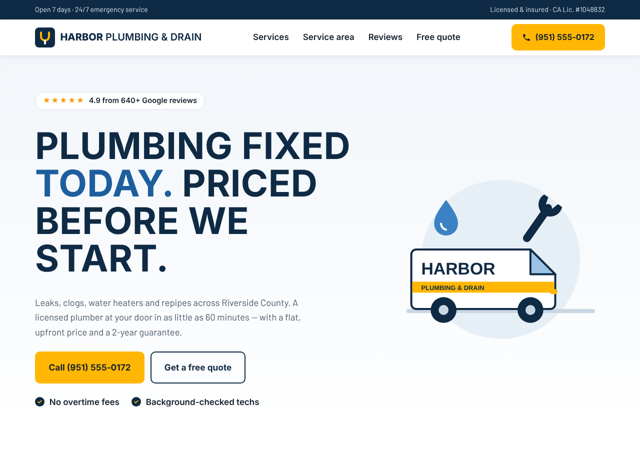
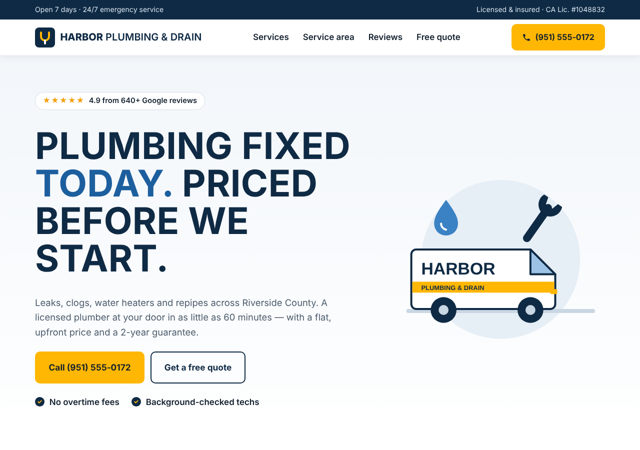
Move site to goodlittlefiles.com
Claude-Session: https://claude.ai/code/session_014Zyiwb7oGSLGtLhNHFaR6K

Changed region(s): [[0.0625, 0.6533, 0.5312, 0.7467], [0.75, 0.0, 0.9375, 0.0311], [0.0625, 0.0, 0.25, 0.0311]]

diff --git a/templates/local-business/index.html b/templates/local-business/index.html
@@ -1,6 +1,6 @@
 <!doctype html><html lang="en"><head><meta charset="utf-8">
 <meta name="viewport" content="width=device-width,initial-scale=1"><title>Local Pro: HTML Landing Page Template for Local Businesses</title>
-<meta name="description" content="A high-converting local service page with click-to-call buttons, services with prices, service area, reviews and a quote form. Responsive HTML/CSS template for Plumbers, electricians, cleaners, contractors, landscapers and other local trades."><link rel="canonical" href="https://vampyer.github.io/app-copy/templates/local-business/">
+<meta name="description" content="A high-converting local service page with click-to-call buttons, services with prices, service area, reviews and a quote form. Responsive HTML/CSS template for Plumbers, electricians, cleaners, contractors, landscapers and other local trades."><link rel="canonical" href="https://goodlittlefiles.com/templates/local-business/">
 <meta property="og:title" content="Local Pro: HTML Landing Page Template for Local Businesses"><meta property="og:description" content="A high-converting local service page with click-to-call buttons, services with prices, service area, reviews and a quote form. Responsive HTML/CSS template for Plumbers, electricians, cleaners, contractors, landscapers and other local trades.">
 <link rel="stylesheet" href="../../style.css"></head><body>
 <header class="top"><a class="brand" href="../../">Good Little Files</a><nav><a href="../../printables/">Printables</a><a href="../../games/">Games</a><a href="../../templates/">Templates</a><a href="../../pixel-art/">Pixel art</a></nav></header>

diff --git a/templates/saas/index.html b/templates/saas/index.html
@@ -1,6 +1,6 @@
 <!doctype html><html lang="en"><head><meta charset="utf-8">
 <meta name="viewport" content="width=device-width,initial-scale=1"><title>Launch: Free HTML Landing Page Template for SaaS and Apps</title>
-<meta name="description" content="A dark, modern SaaS product page with a CSS-built app mockup, feature grid, three-tier pricing and FAQ accordion. Responsive HTML/CSS template for SaaS startups, apps, digital products and indie hackers launching a product."><link rel="canonical" href="https://vampyer.github.io/app-copy/templates/saas/">
+<meta name="description" content="A dark, modern SaaS product page with a CSS-built app mockup, feature grid, three-tier pricing and FAQ accordion. Responsive HTML/CSS template for SaaS startups, apps, digital products and indie hackers launching a product."><link rel="canonical" href="https://goodlittlefiles.com/templates/saas/">
 <meta property="og:title" content="Launch: Free HTML Landing Page Template for SaaS and Apps"><meta property="og:description" content="A dark, modern SaaS product page with a CSS-built app mockup, feature grid, three-tier pricing and FAQ accordion. Responsive HTML/CSS template for SaaS startups, apps, digital products and indie hackers launching a product.">
 <link rel="stylesheet" href="../../style.css"></head><body>
 <header class="top"><a class="brand" href="../../">Good Little Files</a><nav><a href="../../printables/">Printables</a><a href="../../games/">Games</a><a href="../../templates/">Templates</a><a href="../../pixel-art/">Pixel art</a></nav></header>

diff --git a/templates/portfolio/index.html b/templates/portfolio/index.html
@@ -1,6 +1,6 @@
 <!doctype html><html lang="en"><head><meta charset="utf-8">
 <meta name="viewport" content="width=device-width,initial-scale=1"><title>Folio: HTML Landing Page Template for Portfolios</title>
-<meta name="description" content="A bold, minimal personal portfolio with a statement intro, staggered project grid, about section and big contact link. Responsive HTML/CSS template for Designers, developers, freelancers and creatives showcasing their work."><link rel="canonical" href="https://vampyer.github.io/app-copy/templates/portfolio/">
+<meta name="description" content="A bold, minimal personal portfolio with a statement intro, staggered project grid, about section and big contact link. Responsive HTML/CSS template for Designers, developers, freelancers and creatives showcasing their work."><link rel="canonical" href="https://goodlittlefiles.com/templates/portfolio/">
 <meta property="og:title" content="Folio: HTML Landing Page Template for Portfolios"><meta property="og:description" content="A bold, minimal personal portfolio with a statement intro, staggered project grid, about section and big contact link. Responsive HTML/CSS template for Designers, developers, freelancers and creatives showcasing their work.">
 <link rel="stylesheet" href="../../style.css"></head><body>
 <header class="top"><a class="brand" href="../../">Good Little Files</a><nav><a href="../../printables/">Printables</a><a href="../../games/">Games</a><a href="../../templates/">Templates</a><a href="../../pixel-art/">Pixel art</a></nav></header>

diff --git a/templates/restaurant/index.html b/templates/restaurant/index.html
@@ -1,6 +1,6 @@
 <!doctype html><html lang="en"><head><meta charset="utf-8">
 <meta name="viewport" content="width=device-width,initial-scale=1"><title>Bistro: HTML Landing Page Template for Restaurants</title>
-<meta name="description" content="A warm, editorial restaurant page with an elegant priced menu, opening hours, map and reservation call-to-action. Responsive HTML/CSS template for Restaurants, cafés, wine bars, bakeries and food trucks."><link rel="canonical" href="https://vampyer.github.io/app-copy/templates/restaurant/">
+<meta name="description" content="A warm, editorial restaurant page with an elegant priced menu, opening hours, map and reservation call-to-action. Responsive HTML/CSS template for Restaurants, cafés, wine bars, bakeries and food trucks."><link rel="canonical" href="https://goodlittlefiles.com/templates/restaurant/">
 <meta property="og:title" content="Bistro: HTML Landing Page Template for Restaurants"><meta property="og:description" content="A warm, editorial restaurant page with an elegant priced menu, opening hours, map and reservation call-to-action. Responsive HTML/CSS template for Restaurants, cafés, wine bars, bakeries and food trucks.">
 <link rel="stylesheet" href="../../style.css"></head><body>
 <header class="top"><a class="brand" href="../../">Good Little Files</a><nav><a href="../../printables/">Printables</a><a href="../../games/">Games</a><a href="../../templates/">Templates</a><a href="../../pixel-art/">Pixel art</a></nav></header>

diff --git a/templates/event/index.html b/templates/event/index.html
@@ -1,6 +1,6 @@
 <!doctype html><html lang="en"><head><meta charset="utf-8">
 <meta name="viewport" content="width=device-width,initial-scale=1"><title>Summit: HTML Landing Page Template for Events</title>
-<meta name="description" content="An energetic event page with a live countdown, speaker grid, two-day schedule and ticket tiers. Responsive HTML/CSS template for Conferences, meetups, workshops, festivals and product launches."><link rel="canonical" href="https://vampyer.github.io/app-copy/templates/event/">
+<meta name="description" content="An energetic event page with a live countdown, speaker grid, two-day schedule and ticket tiers. Responsive HTML/CSS template for Conferences, meetups, workshops, festivals and product launches."><link rel="canonical" href="https://goodlittlefiles.com/templates/event/">
 <meta property="og:title" content="Summit: HTML Landing Page Template for Events"><meta property="og:description" content="An energetic event page with a live countdown, speaker grid, two-day schedule and ticket tiers. Responsive HTML/CSS template for Conferences, meetups, workshops, festivals and product launches.">
 <link rel="stylesheet" href="../../style.css"></head><body>
 <header class="top"><a class="brand" href="../../">Good Little Files</a><nav><a href="../../printables/">Printables</a><a href="../../games/">Games</a><a href="../../templates/">Templates</a><a href="../../pixel-art/">Pixel art</a></nav></header>

diff --git a/printables/september-2027-calendar/index.html b/printables/september-2027-calendar/index.html
@@ -1,6 +1,6 @@
 <!doctype html><html lang="en"><head><meta charset="utf-8">
 <meta name="viewport" content="width=device-width,initial-scale=1"><title>Free Printable September 2027 Calendar (PDF)</title>
-<meta name="description" content="A blank September 2027 monthly calendar with large date boxes and a notes section, weeks starting Sunday. Free printable PDF, no sign-up."><link rel="canonical" href="https://vampyer.github.io/app-copy/printables/september-2027-calendar/">
+<meta name="description" content="A blank September 2027 monthly calendar with large date boxes and a notes section, weeks starting Sunday. Free printable PDF, no sign-up."><link rel="canonical" href="https://goodlittlefiles.com/printables/september-2027-calendar/">
 <meta property="og:title" content="Free Printable September 2027 Calendar (PDF)"><meta property="og:description" content="A blank September 2027 monthly calendar with large date boxes and a notes section, weeks starting Sunday. Free printable PDF, no sign-up.">
 <link rel="stylesheet" href="../style.css"></head><body>
 <header class="top"><a class="brand" href="../">Plain Printables</a><nav><a href="../../">Shop home</a><a href="../#free">Free printables</a><a href="../#calendars">Calendars</a><a href="../planner-2027/">2027 Planner</a></nav></header>

diff --git a/printables/december-2026-calendar/index.html b/printables/december-2026-calendar/index.html
@@ -1,6 +1,6 @@
 <!doctype html><html lang="en"><head><meta charset="utf-8">
 <meta name="viewport" content="width=device-width,initial-scale=1"><title>Free Printable December 2026 Calendar (PDF)</title>
-<meta name="description" content="A blank December 2026 monthly calendar with large date boxes and a notes section, weeks starting Sunday. Free printable PDF, no sign-up."><link rel="canonical" href="https://vampyer.github.io/app-copy/printables/december-2026-calendar/">
+<meta name="description" content="A blank December 2026 monthly calendar with large date boxes and a notes section, weeks starting Sunday. Free printable PDF, no sign-up."><link rel="canonical" href="https://goodlittlefiles.com/printables/december-2026-calendar/">
 <meta property="og:title" content="Free Printable December 2026 Calendar (PDF)"><meta property="og:description" content="A blank December 2026 monthly calendar with large date boxes and a notes section, weeks starting Sunday. Free printable PDF, no sign-up.">
 <link rel="stylesheet" href="../style.css"></head><body>
 <header class="top"><a class="brand" href="../">Plain Printables</a><nav><a href="../../">Shop home</a><a href="../#free">Free printables</a><a href="../#calendars">Calendars</a><a href="../planner-2027/">2027 Planner</a></nav></header>

diff --git a/printables/december-2027-calendar/index.html b/printables/december-2027-calendar/index.html
@@ -1,6 +1,6 @@
 <!doctype html><html lang="en"><head><meta charset="utf-8">
 <meta name="viewport" content="width=device-width,initial-scale=1"><title>Free Printable December 2027 Calendar (PDF)</title>
-<meta name="description" content="A blank December 2027 monthly calendar with large date boxes and a notes section, weeks starting Sunday. Free printable PDF, no sign-up."><link rel="canonical" href="https://vampyer.github.io/app-copy/printables/december-2027-calendar/">
+<meta name="description" content="A blank December 2027 monthly calendar with large date boxes and a notes section, weeks starting Sunday. Free printable PDF, no sign-up."><link rel="canonical" href="https://goodlittlefiles.com/printables/december-2027-calendar/">
 <meta property="og:title" content="Free Printable December 2027 Calendar (PDF)"><meta property="og:description" content="A blank December 2027 monthly calendar with large date boxes and a notes section, weeks starting Sunday. Free printable PDF, no sign-up.">
 <link rel="stylesheet" href="../style.css"></head><body>
 <header class="top"><a class="brand" href="../">Plain Printables</a><nav><a href="../../">Shop home</a><a href="../#free">Free printables</a><a href="../#calendars">Calendars</a><a href="../planner-2027/">2027 Planner</a></nav></header>

diff --git a/printables/february-2027-calendar/index.html b/printables/february-2027-calendar/index.html
@@ -1,6 +1,6 @@
 <!doctype html><html lang="en"><head><meta charset="utf-8">
 <meta name="viewport" content="width=device-width,initial-scale=1"><title>Free Printable February 2027 Calendar (PDF)</title>
-<meta name="description" content="A blank February 2027 monthly calendar with large date boxes and a notes section, weeks starting Sunday. Free printable PDF, no sign-up."><link rel="canonical" href="https://vampyer.github.io/app-copy/printables/february-2027-calendar/">
+<meta name="description" content="A blank February 2027 monthly calendar with large date boxes and a notes section, weeks starting Sunday. Free printable PDF, no sign-up."><link rel="canonical" href="https://goodlittlefiles.com/printables/february-2027-calendar/">
 <meta property="og:title" content="Free Printable February 2027 Calendar (PDF)"><meta property="og:description" content="A blank February 2027 monthly calendar with large date boxes and a notes section, weeks starting Sunday. Free printable PDF, no sign-up.">
 <link rel="stylesheet" href="../style.css"></head><body>
 <header class="top"><a class="brand" href="../">Plain Printables</a><nav><a href="../../">Shop home</a><a href="../#free">Free printables</a><a href="../#calendars">Calendars</a><a href="../planner-2027/">2027 Planner</a></nav></header>

diff --git a/printables/november-2026-calendar/index.html b/printables/november-2026-calendar/index.html
@@ -1,6 +1,6 @@
 <!doctype html><html lang="en"><head><meta charset="utf-8">
 <meta name="viewport" content="width=device-width,initial-scale=1"><title>Free Printable November 2026 Calendar (PDF)</title>
-<meta name="description" content="A blank November 2026 monthly calendar with large date boxes and a notes section, weeks starting Sunday. Free printable PDF, no sign-up."><link rel="canonical" href="https://vampyer.github.io/app-copy/printables/november-2026-calendar/">
+<meta name="description" content="A blank November 2026 monthly calendar with large date boxes and a notes section, weeks starting Sunday. Free printable PDF, no sign-up."><link rel="canonical" href="https://goodlittlefiles.com/printables/november-2026-calendar/">
 <meta property="og:title" content="Free Printable November 2026 Calendar (PDF)"><meta property="og:description" content="A blank November 2026 monthly calendar with large date boxes and a notes section, weeks starting Sunday. Free printable PDF, no sign-up.">
 <link rel="stylesheet" href="../style.css"></head><body>
 <header class="top"><a class="brand" href="../">Plain Printables</a><nav><a href="../../">Shop home</a><a href="../#free">Free printables</a><a href="../#calendars">Calendars</a><a href="../planner-2027/">2027 Planner</a></nav></header>

diff --git a/printables/november-2027-calendar/index.html b/printables/november-2027-calendar/index.html
@@ -1,6 +1,6 @@
 <!doctype html><html lang="en"><head><meta charset="utf-8">
 <meta name="viewport" content="width=device-width,initial-scale=1"><title>Free Printable November 2027 Calendar (PDF)</title>
-<meta name="description" content="A blank November 2027 monthly calendar with large date boxes and a notes section, weeks starting Sunday. Free printable PDF, no sign-up."><link rel="canonical" href="https://vampyer.github.io/app-copy/printables/november-2027-calendar/">
+<meta name="description" content="A blank November 2027 monthly calendar with large date boxes and a notes section, weeks starting Sunday. Free printable PDF, no sign-up."><link rel="canonical" href="https://goodlittlefiles.com/printables/november-2027-calendar/">
 <meta property="og:title" content="Free Printable November 2027 Calendar (PDF)"><meta property="og:description" content="A blank November 2027 monthly calendar with large date boxes and a notes section, weeks starting Sunday. Free printable PDF, no sign-up.">
 <link rel="stylesheet" href="../style.css"></head><body>
 <header class="top"><a class="brand" href="../">Plain Printables</a><nav><a href="../../">Shop home</a><a href="../#free">Free printables</a><a href="../#calendars">Calendars</a><a href="../planner-2027/">2027 Planner</a></nav></header>

diff --git a/printables/january-2027-calendar/index.html b/printables/january-2027-calendar/index.html
@@ -1,6 +1,6 @@
 <!doctype html><html lang="en"><head><meta charset="utf-8">
 <meta name="viewport" content="width=device-width,initial-scale=1"><title>Free Printable January 2027 Calendar (PDF)</title>
-<meta name="description" content="A blank January 2027 monthly calendar with large date boxes and a notes section, weeks starting Sunday. Free printable PDF, no sign-up."><link rel="canonical" href="https://vampyer.github.io/app-copy/printables/january-2027-calendar/">
+<meta name="description" content="A blank January 2027 monthly calendar with large date boxes and a notes section, weeks starting Sunday. Free printable PDF, no sign-up."><link rel="canonical" href="https://goodlittlefiles.com/printables/january-2027-calendar/">
 <meta property="og:title" content="Free Printable January 2027 Calendar (PDF)"><meta property="og:description" content="A blank January 2027 monthly calendar with large date boxes and a notes section, weeks starting Sunday. Free printable PDF, no sign-up.">
 <link rel="stylesheet" href="../style.css"></head><body>
 <header class="top"><a class="brand" href="../">Plain Printables</a><nav><a href="../../">Shop home</a><a href="../#free">Free printables</a><a href="../#calendars">Calendars</a><a href="../planner-2027/">2027 Planner</a></nav></header>
